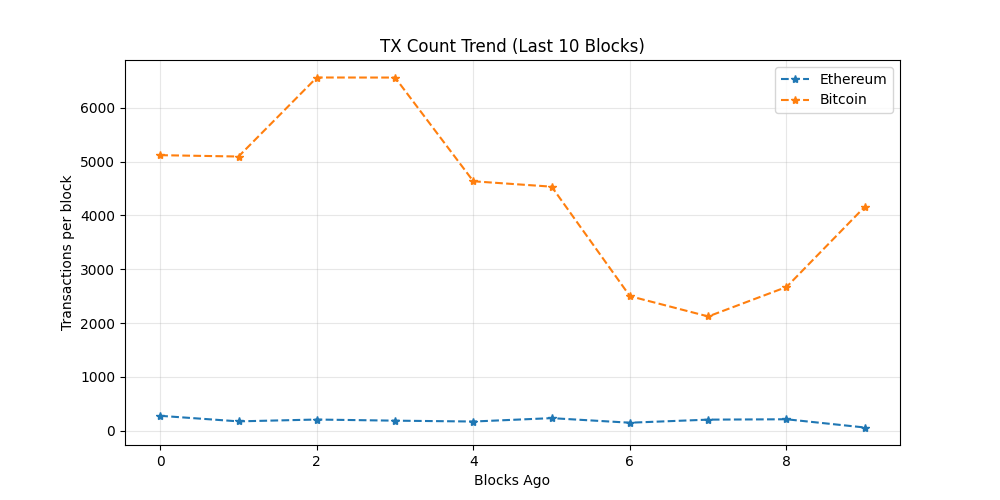
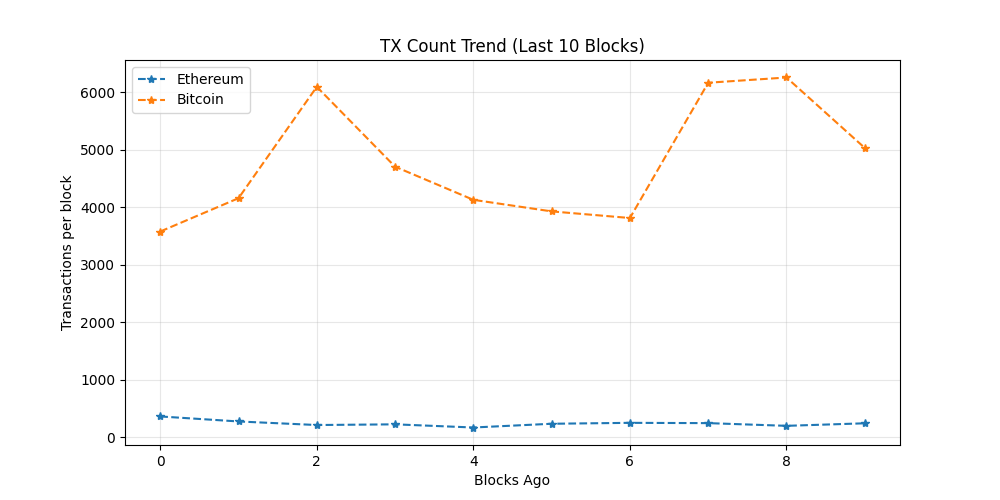
chore: update on-chain dashboard

diff --git a/README.md b/README.md
@@ -19,7 +19,7 @@ The README itself acts as the dashboard and is regenerated automatically on a 6 
 demonstrating a production-style, infrastructure-focused observability workflow rather
 than a traditional UI-driven approach.
 
-_Last updated: 2026-10-10 05:49 UTC_
+_Last updated: 2026-10-10 12:29 UTC_
 
 ## API Usage (GetBlock.io)
 - Calls used: **24**
@@ -27,8 +27,8 @@ _Last updated: 2026-10-10 05:49 UTC_
 ## Network Metrics
 | Chain | Block Height | TX Count | TPS (10 blk avg) | Block Util | Avg Fee |
 |------|-------------|----------|------------------|------------|---------|
-| Ethereum | 26160044 | 60 | 5.0 | 9.71% | 0.1 Gwei |
-| Bitcoin | 970731 | 4160 | 96.74 | 99.79% | N/A |
+| Ethereum | 26162037 | 243 | 20.25 | 37.21% | 0.1 Gwei |
+| Bitcoin | 970763 | 5029 | 12.6 | 99.8% | N/A |
 
 ## Visuals
 ### Transactions Trend
@@ -43,7 +43,11 @@ _Last updated: 2026-10-10 05:49 UTC_
 ## Whale Alerts (latest block)
 - Transaction hashes are truncated for readability.
 - Full hashes are available in `dashboards/metrics.json`
-No whale-sized transfers detected in latest blocks.
+- Bitcoin | 2487.42 BTC | `fa6680f88c5d…`
+- Bitcoin | 187.3 BTC | `1999d70cda76…`
+- Bitcoin | 209.1 BTC | `6d7bbb791ac4…`
+- Bitcoin | 117.46 BTC | `5370af73f035…`
+- Bitcoin | 236.83 BTC | `28722e3938e1…`
 
 ## Run locally
 
